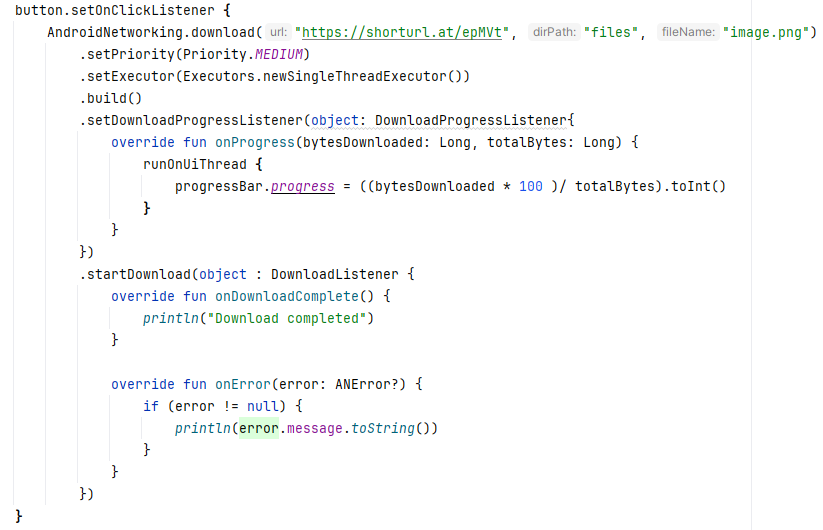
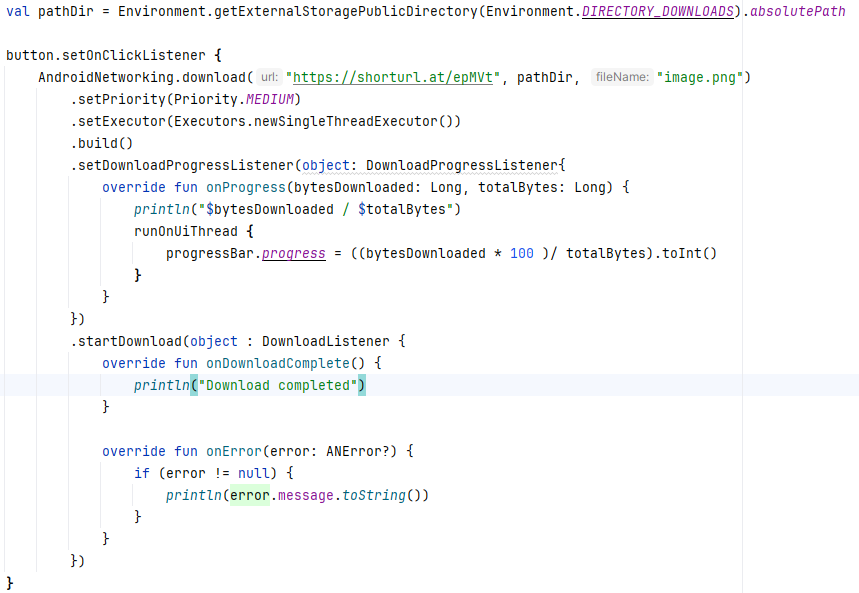
Updated image

diff --git a/demo/FANTesting/app/src/main/java/com/example/fantesting/MainActivity.kt b/demo/FANTesting/app/src/main/java/com/example/fantesting/MainActivity.kt
@@ -1,6 +1,7 @@
 package com.example.fantesting
 
 import android.os.Bundle
+import android.os.Environment
 import android.widget.Button
 import android.widget.ImageView
 import android.widget.ProgressBar
@@ -108,13 +109,16 @@ class MainActivity : AppCompatActivity() {
         val progressBar = findViewById<ProgressBar>(R.id.progressBar)
         val button = findViewById<Button>(R.id.button)
 
+        val pathDir = Environment.getExternalStoragePublicDirectory(Environment.DIRECTORY_DOWNLOADS).absolutePath
+
         button.setOnClickListener {
-            AndroidNetworking.download("https://shorturl.at/epMVt", "files", "image.png")
+            AndroidNetworking.download("https://shorturl.at/epMVt", pathDir, "image.png")
                 .setPriority(Priority.MEDIUM)
                 .setExecutor(Executors.newSingleThreadExecutor())
                 .build()
                 .setDownloadProgressListener(object: DownloadProgressListener{
                     override fun onProgress(bytesDownloaded: Long, totalBytes: Long) {
+                        println("$bytesDownloaded / $totalBytes")
                         runOnUiThread {
                             progressBar.progress = ((bytesDownloaded * 100 )/ totalBytes).toInt()
                         }
